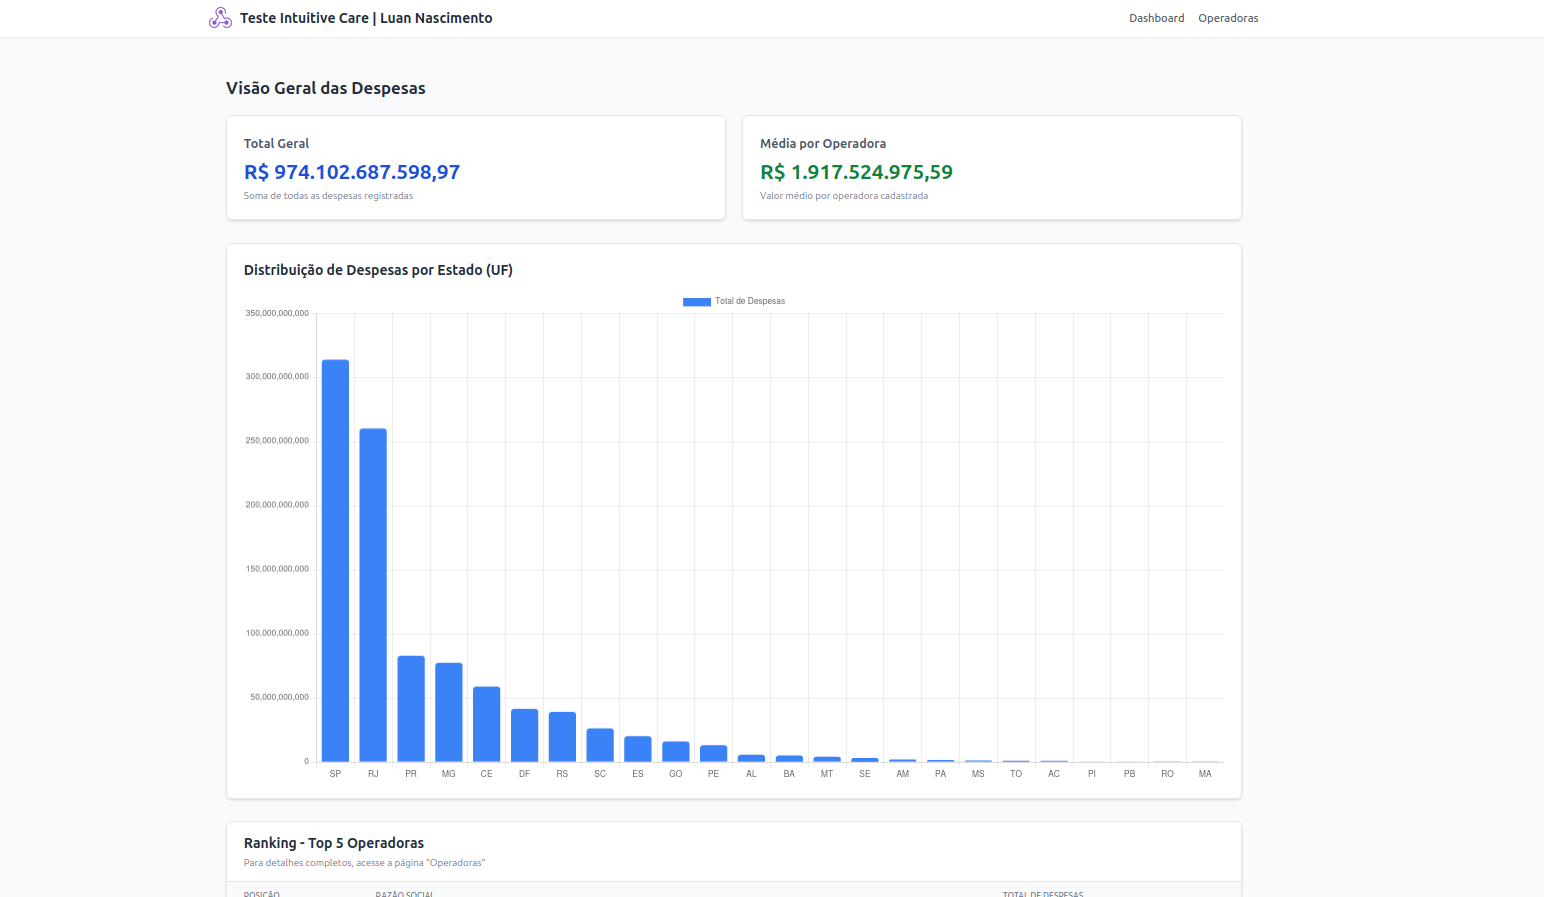
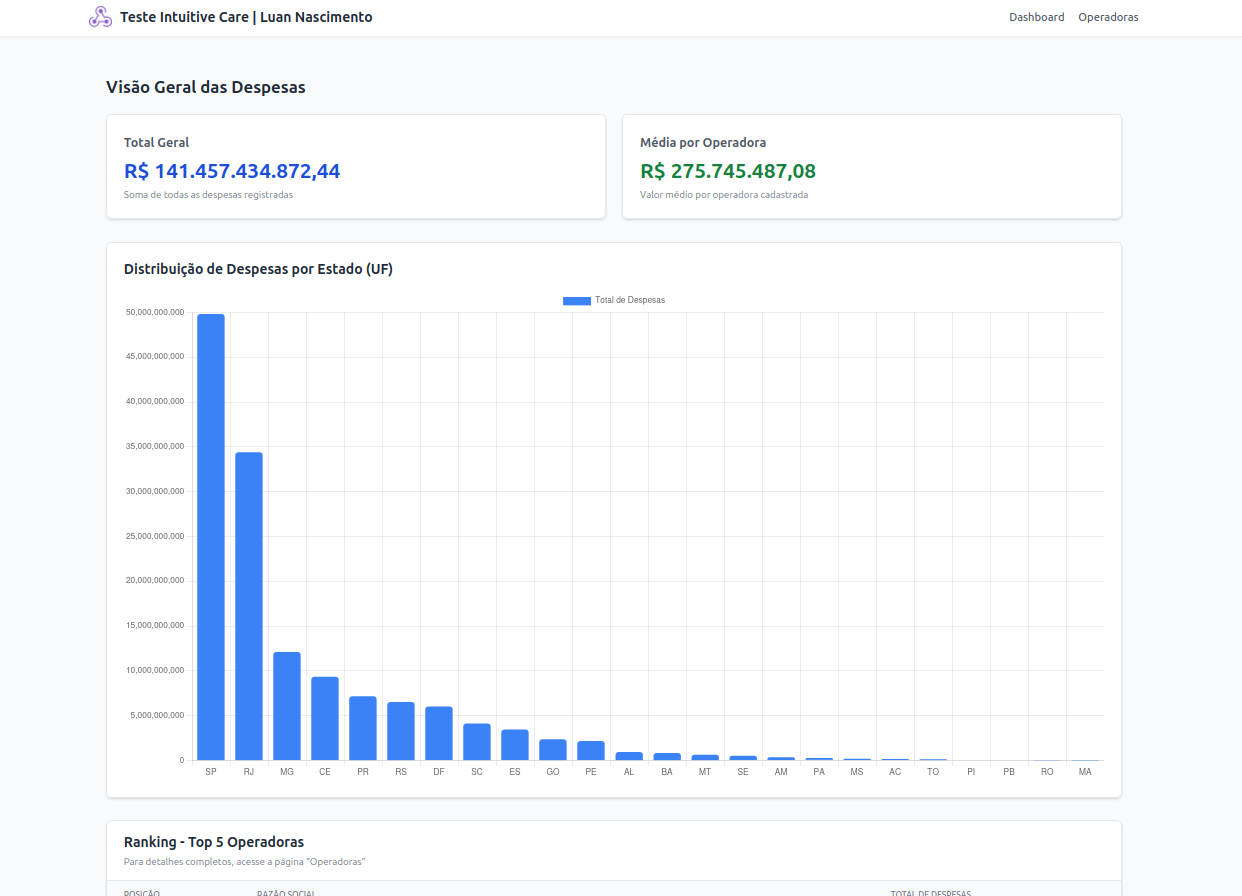
docs(readme): adiciona informações  sobre o tratamento de regras de negócios e novos assets

diff --git a/README.md b/README.md
@@ -8,6 +8,8 @@
 ![TailwindCSS](https://img.shields.io/badge/Tailwind_CSS-38B2AC?style=for-the-badge&logo=tailwind-css&logoColor=white)
 ![Status](https://img.shields.io/badge/STATUS-CONCLUÍDO-success?style=for-the-badge)
 
+![Arquitetura do Projeto](assets/arquitetura_projeto.png)
+
 Este repositório contém a solução completa para o desafio técnico, abrangendo desde o processamento de dados da ANS (ETL) até a visualização em um Dashboard interativo.
 
 ### Índice
@@ -19,6 +21,7 @@ Este repositório contém a solução completa para o desafio técnico, abrangen
 - [Documentação da API](#44-documentação-da-api)
 - [Arquivos ZIPs para Avaliação](#arquivos-zips-para-avaliação)
 - [Diferenciais do Projeto](#diferenciais-e-qualidade-de-código)
+- [Tratamento de Regras de Negócios](#lógica-de-dados-e-tratamento-de-regras-de-negócios)
 - [Como Executar](#como-executar)
 
 ## Decisões Técnicas da Tarefa 1 - TESTE DE INTEGRAÇÃO COM API PÚBLICA
@@ -278,6 +281,9 @@ Demonstração da aplicação Fullstack:
 ### Dashboard de Estatísticas
 ![Dashboard com Gráfico de Despesas](assets/dashboard_view.png)
 
+### Ranking das Operadoras
+![Ranking das Operadoras](assets/ranking_operadoras.png)
+
 ### Tabela de Busca das Operadoras
 ![Tabela de Busca](assets/tabela_busca.png)
 
@@ -308,10 +314,15 @@ Além dos requisitos obrigatórios, o projeto conta com implementações focadas
 * **Documentação Viva (Swagger):** A API possui documentação interativa gerada automaticamente (`/docs`), permitindo testar os endpoints diretamente pelo navegador.
 * **Design Moderno:** Uso de Tailwind CSS para uma interface limpa e responsiva.
 
-## Nota Técnica: Análise de Dados Financeiros
+### Lógica de Dados e Tratamento de Regras de Negócios
 
-Durante a validação, notei que o "Total Geral" de despesas apresenta valores acumulados muito altos (Trilhões). Os arquivos da ANS parecem reportar valores acumulados (o arquivo do 3º trimestre já inclui a soma dos anteriores). Ao somar todos os arquivos processados, ocorre uma sobreposição de valores.
-Optei por manter o pipeline realizando a soma direta de todos os registros encontrados nos arquivos. Isso garante a consistência matemática entre o que foi lido do arquivo e o que é exibido no Dashboard, priorizando a integridade da extração de dados sobre regras contábeis complexas de subtração.
+Durante a análise dos dados da ANS, identifiquei alguns problemas na estrutura contábil que exigiram tratamentos específicos para garantir a consistência dos valores:
+
+- **Filtragem Hierárquica (problema da Duplicidade):** O plano de contas da ANS é hierárquico (ex: Conta 4 engloba a 41, que engloba a 411). Somar todas as linhas contendo "Eventos" resultaria em valores duplicados ou triplicados (na casa dos trilhões). Então, fiz com que a pipeline filtre a conta sintética 411 (Eventos/Sinistros Conhecidos ou Avisados) ou suas variações, eliminando a "Conta Pai" e contas de Passivo para capturar apenas a despesa real do período.
+
+- **Seleção de Colunas Temporais (problema do 1º Trimestre):** Os arquivos CSV contêm VL_SALDO_INICIAL e VL_SALDO_FINAL. Priorizei a extração da coluna VL_SALDO_FINAL porque no 1º Trimestre, o VL_SALDO_INICIAL é frequentemente zero. Utilizar a coluna incorreta faria com que os dados de Jan/Fev/Mar fossem ignorados.
+
+- **Natureza dos Dados (YTD) e Cálculo de Deltas:** Os dados contábeis da ANS são reportados de forma acumulada (Year-to-Date). Ou seja, o valor do 3º Trimestre inclui a soma do 1º e 2º. Para apresentar a visão financeira real (quanto foi gasto em cada trimestre), implementei uma lógica de Cálculo de Delta na etapa de consolidação. O algoritmo agrupa os dados por Ano e Operadora, ordena cronologicamente e subtrai o valor do trimestre anterior (Valor Atual - Valor Anterior). Isso corrigiu a distorção dos dados brutos, permitindo que o Dashboard exiba a despesa trimestral real e não uma soma duplicada.
 
 
 ### Como Executar: 
@@ -350,6 +361,16 @@ docker run --name pg-test -e POSTGRES_PASSWORD=postgres -p 5432:5432 -d postgres
 ```
 
 **3. Execute o Pipeline ETL:**
+
+**Opção A: Execução Automática (Recomendado):**
+Utilize o script orquestrador que executa todas as etapas sequencialmente e trata erros:
+
+``` bash
+    python executa_pipeline.py
+```
+
+**Opção B: Execução Manual (Passo a Passo):**
+Caso queira executar ou depurar cada etapa individualmente:
 
 Tarefa 1: ETL e Consolidação
 
@@ -401,12 +422,21 @@ Terminal 2: Frontend (Interface)
 
 **5. Verificação e Testes Automatizados**
 
+**Script de Teste Unificado para o ETL:**
+Para garantir a integridade da aplicação, você pode rodar a os testes completo.
+
+**Opção A: Script de Teste Unificado (Recomendado):**
+Este script executa automaticamente os testes de ETL e Validação.
 ``` bash
-    # Testes Unitários e de Integração
-    pytest
+    python executa_testes.py
+```
+**Opção B: Testes de Integração da API:**
+Para testar especificamente os endpoints do Backend.
+``` bash
+    python -m pytest backend/src/tests/test_api.py -v
 ```
 
 **Artefatos Gerados:** os arquivos solicitados no teste estarão disponíveis em:
 
 - **ETL:** ```data/processed/consolidado_despesas.zip```
-- **Agregação:** ```data/processed/teste_seu_nome.zip```
+- **Agregação:** ```data/processed/teste_luan_nascimento.zip```
